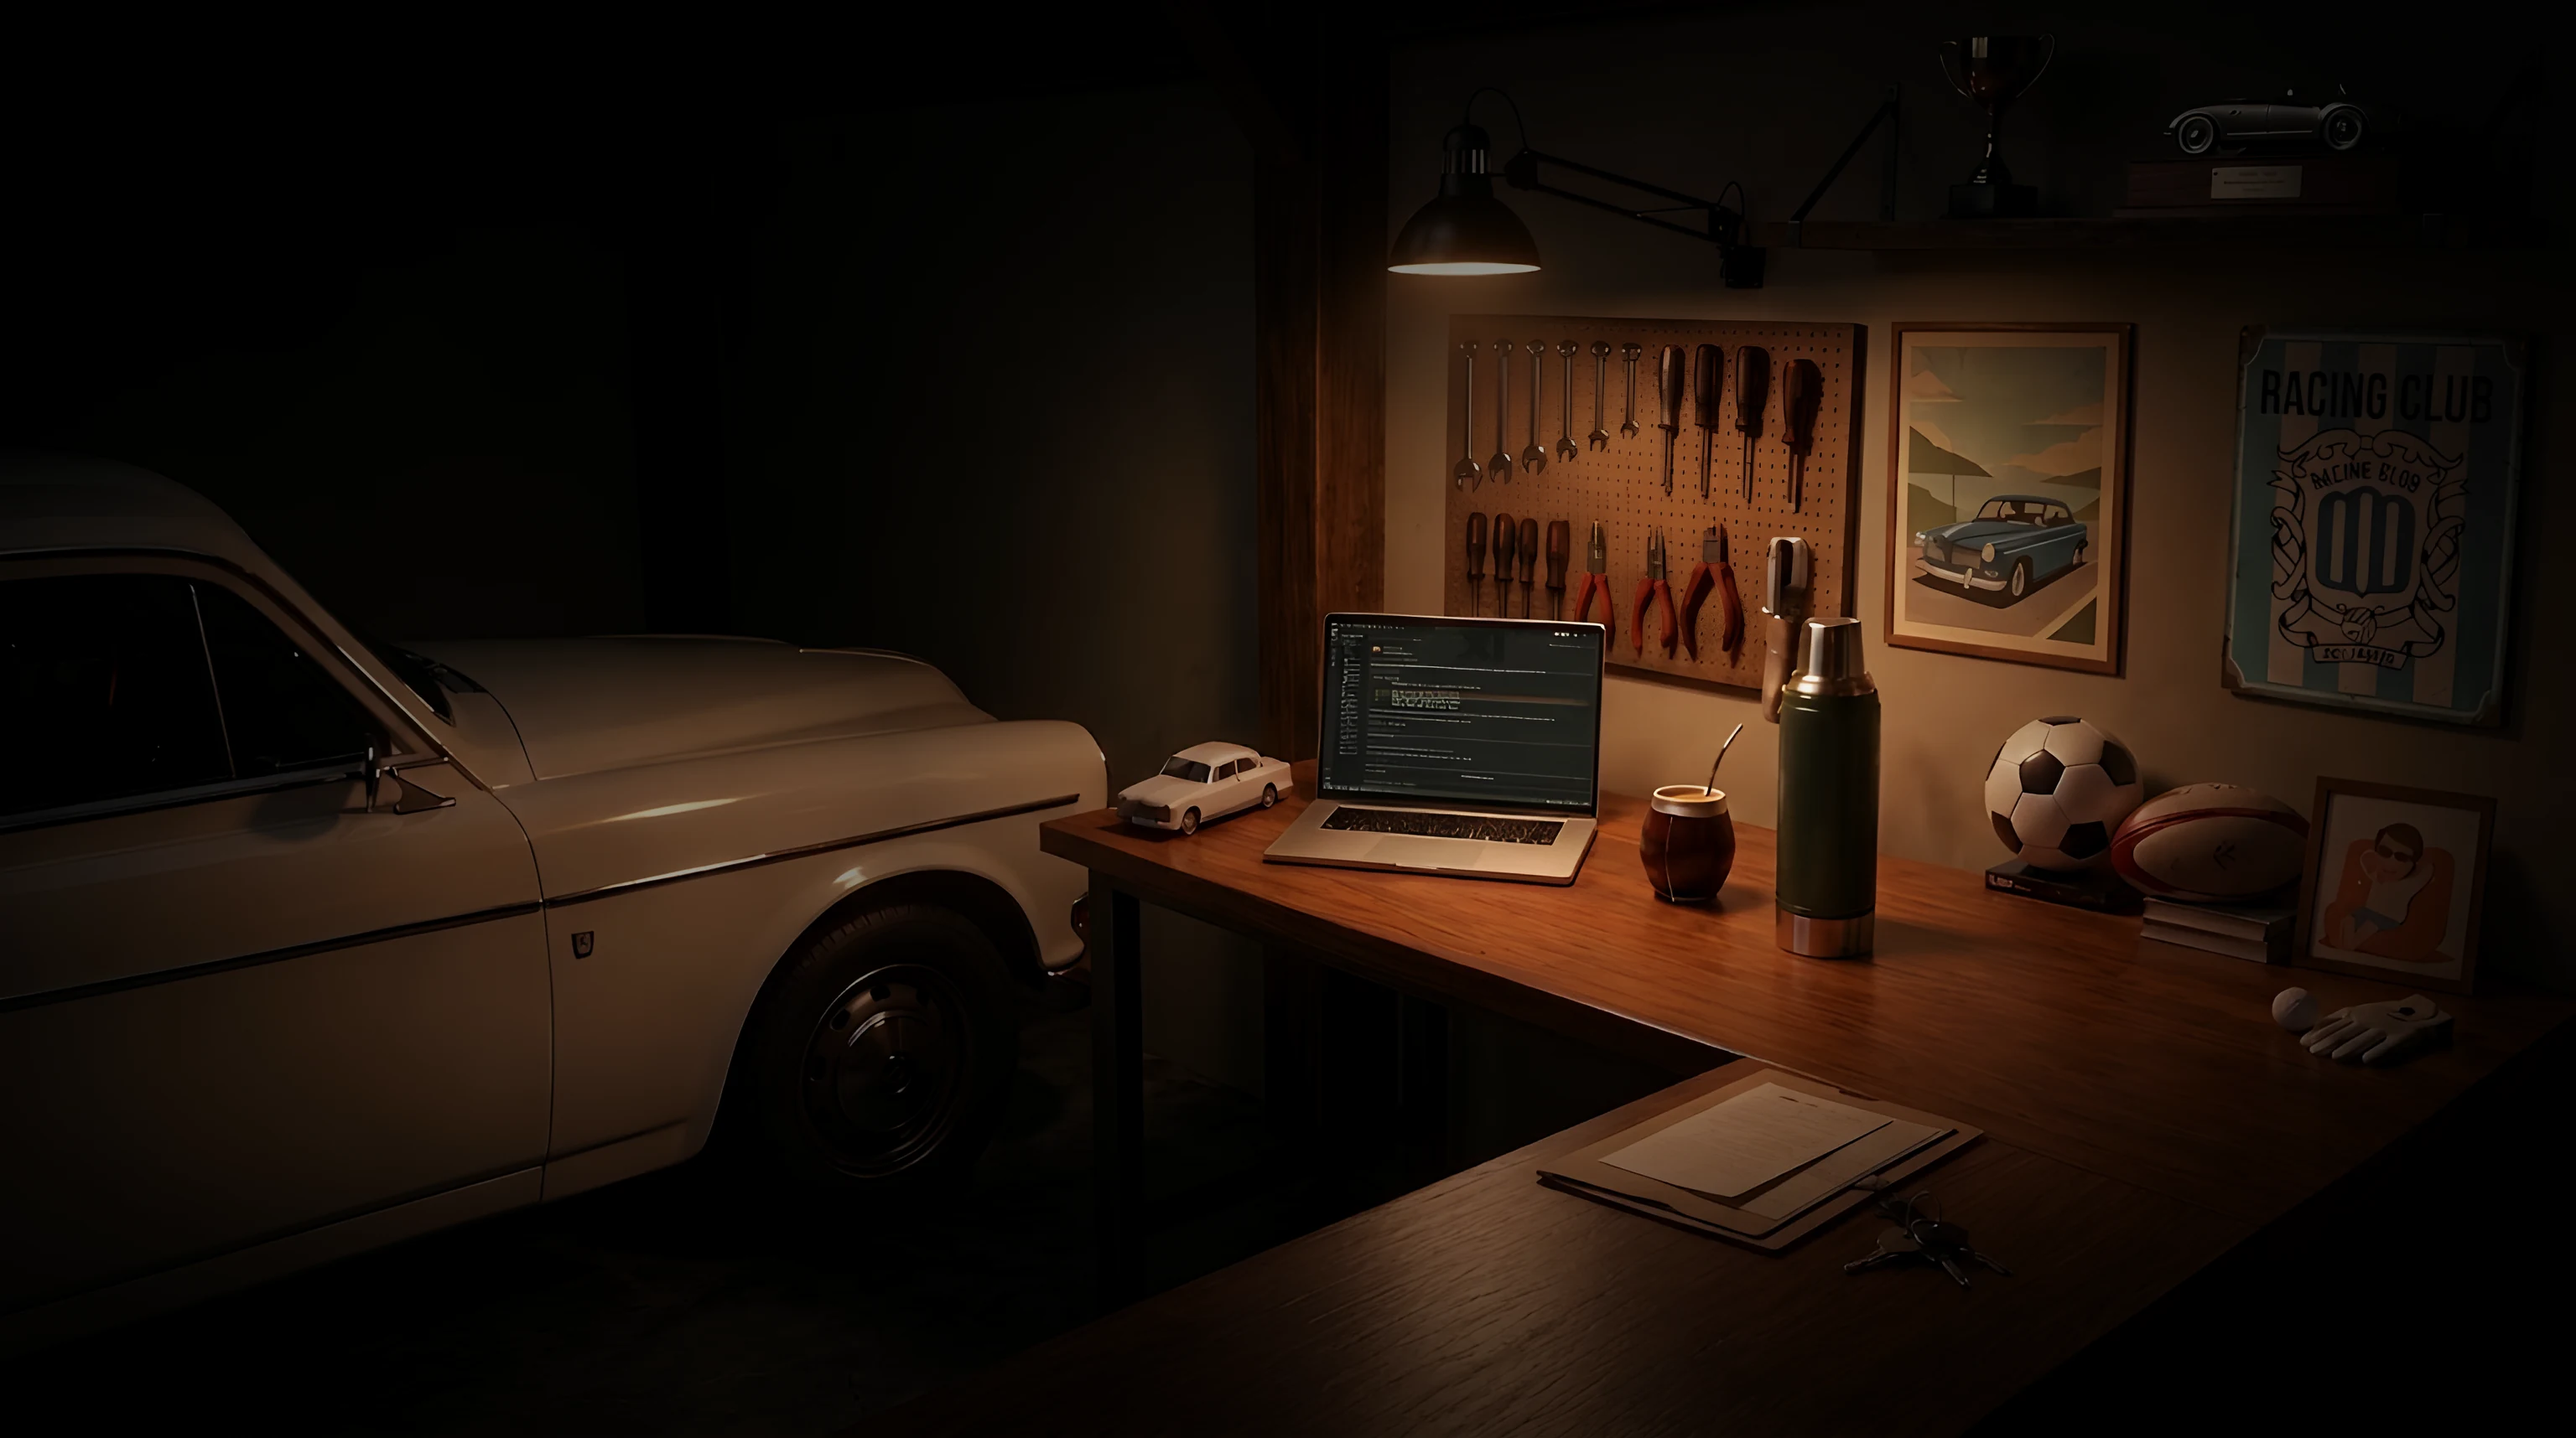
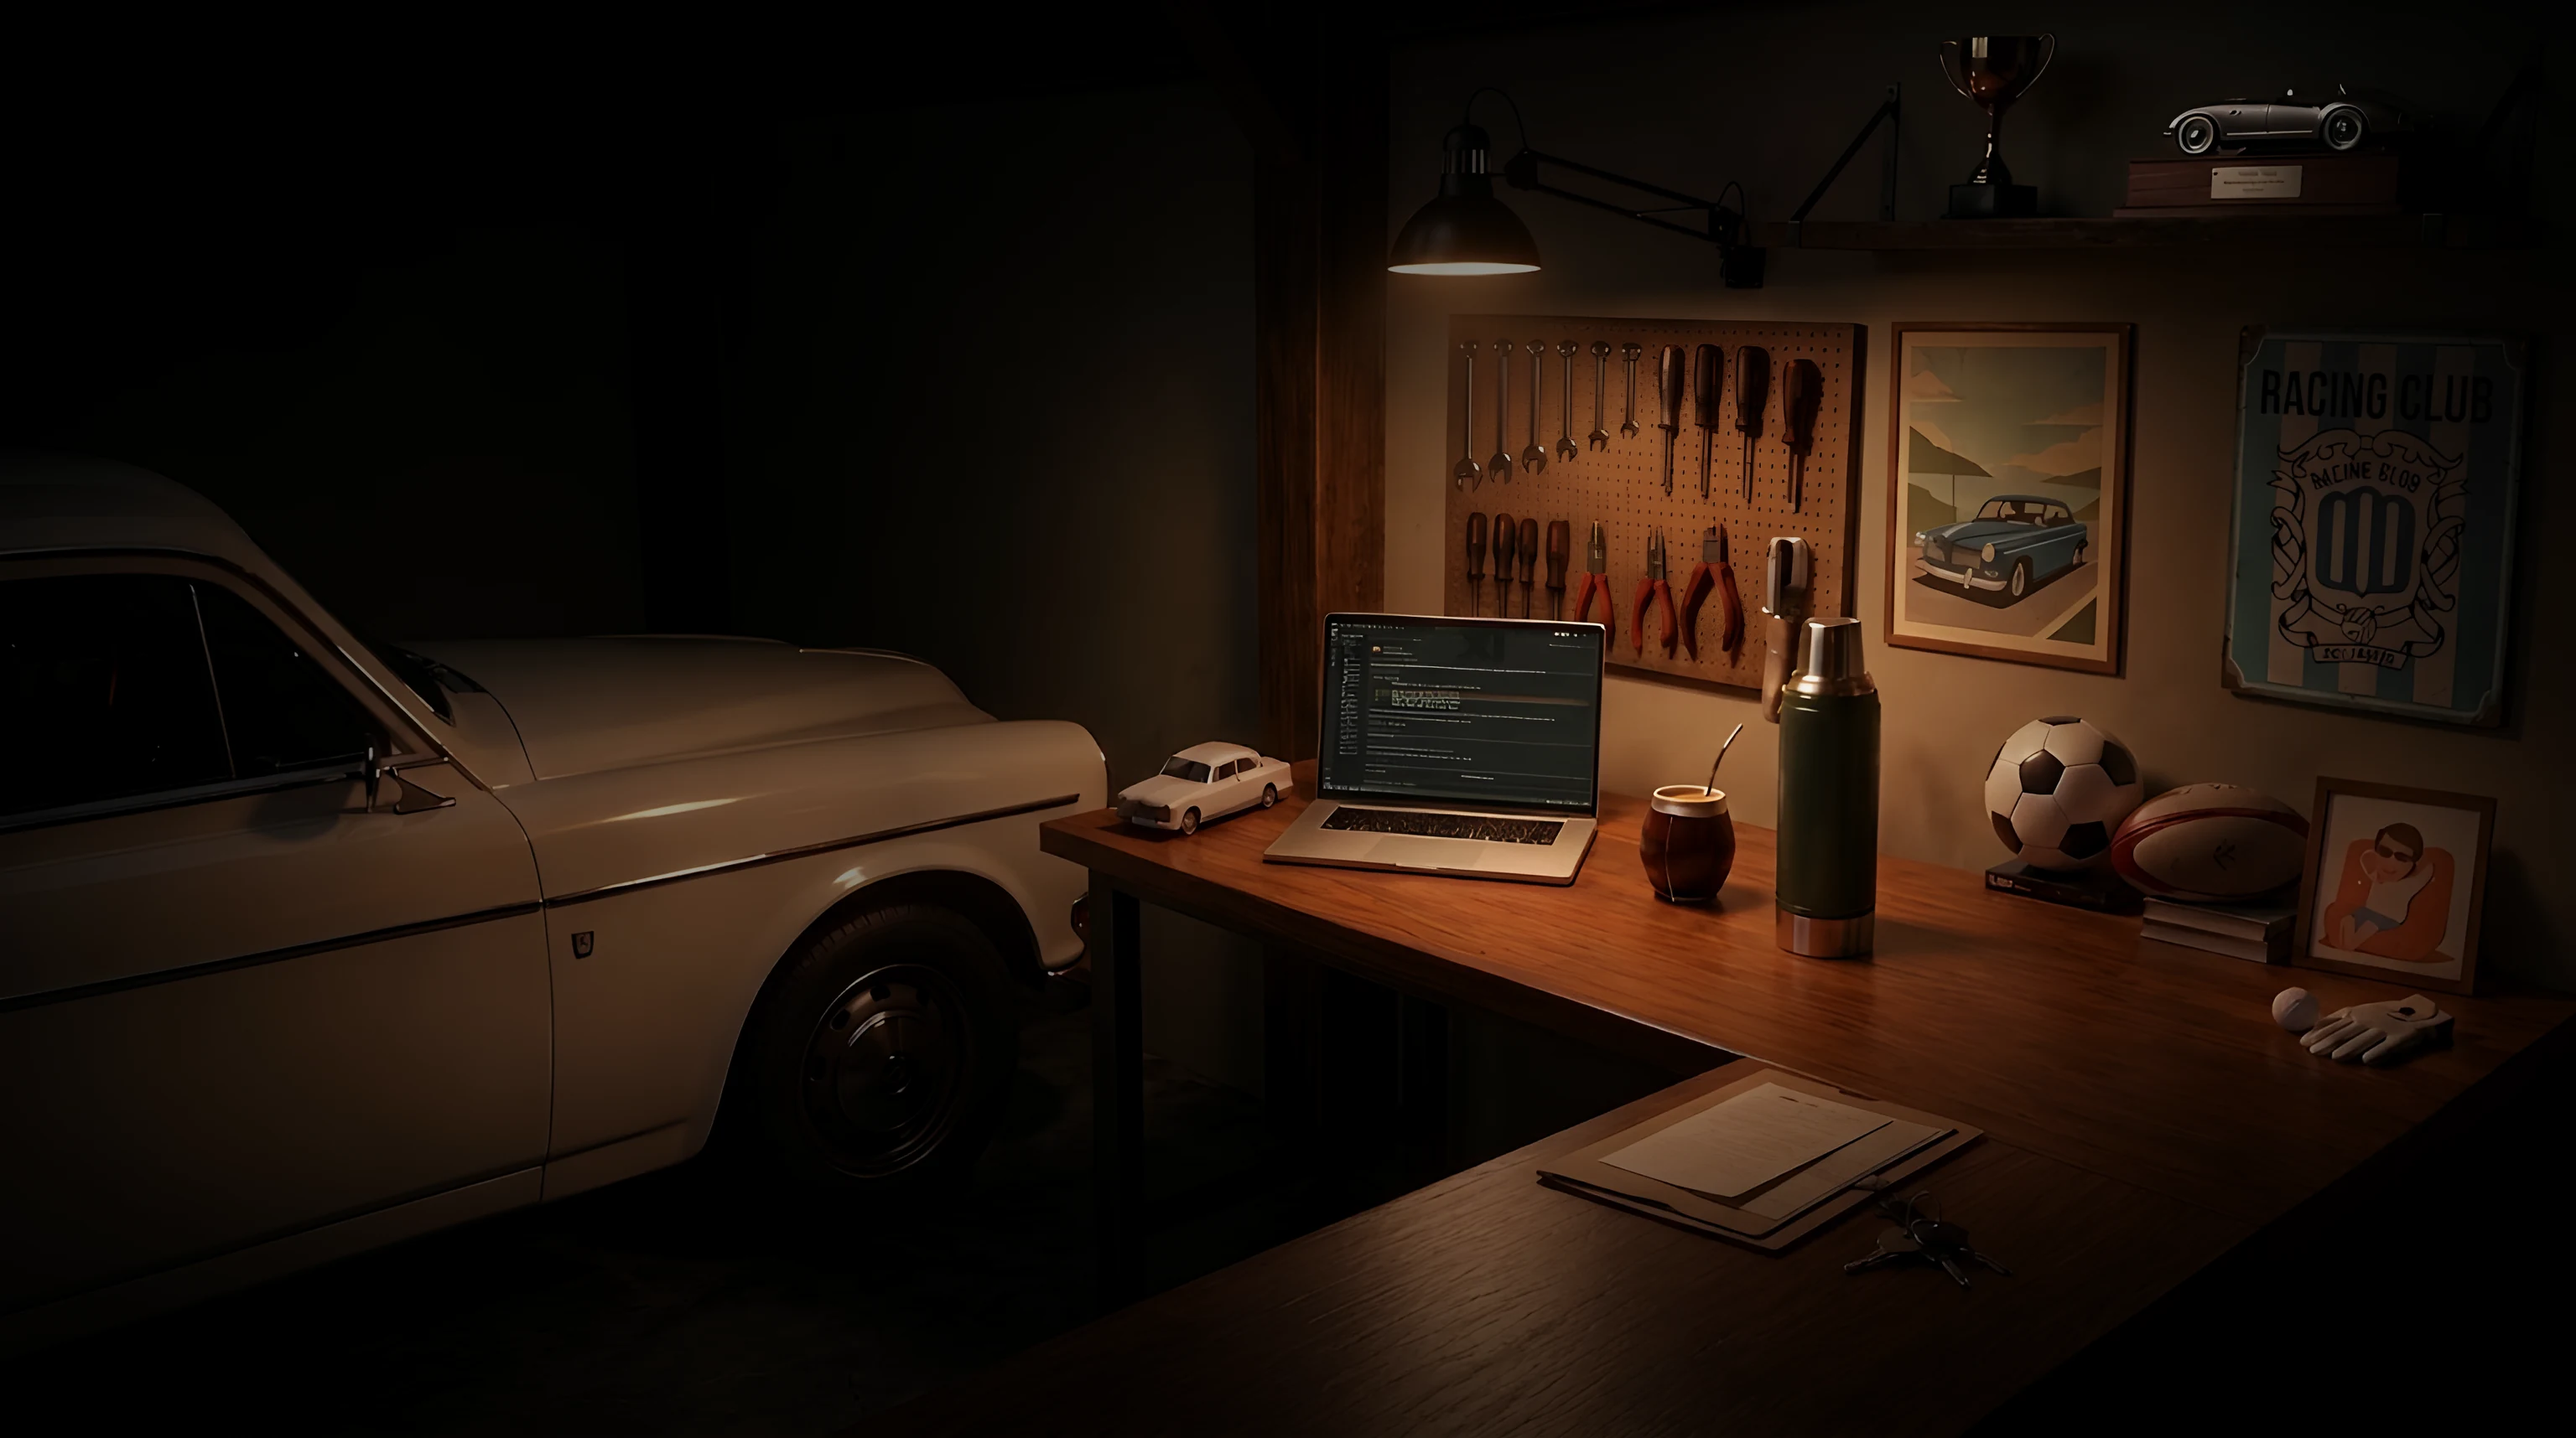
Home con menos zoom (escena al 90%) y luz sobre trofeos y rincón de golf
Claude-Session: https://claude.ai/code/session_01DYvLDrG6E4nKeTnPbicR5p

Changed region(s): [[0.875, 0.5868, 0.9688, 0.7413], [0.8125, 0.0618, 0.9062, 0.1544], [0.75, 0.0309, 0.7812, 0.0618]]

diff --git a/src/components/Scene.tsx b/src/components/Scene.tsx
@@ -101,7 +101,7 @@ export function Scene({ onEnter }: { onEnter: (route: Route) => void }) {
         transition={{ duration: 1.1, ease: [0.7, 0, 0.84, 0] }}
         onAnimationComplete={() => zoom && go(zoom.route)}
       >
-        <motion.div className="absolute inset-0" style={{ x: sx, y: sy, scale: 1 }}>
+        <motion.div className="absolute inset-0" style={{ x: sx, y: sy, scale: isPortrait ? 1 : 0.9 }}>
           <svg
             viewBox={`0 0 ${SCENE_W} ${SCENE_H}`}
             preserveAspectRatio="xMidYMid meet"
@@ -125,14 +125,14 @@ export function Scene({ onEnter }: { onEnter: (route: Route) => void }) {
               {/* Bordes que se funden a negro: la escena se ve entera, sin recortes */}
               <linearGradient id="fadeX" x1="0" x2="1" y1="0" y2="0">
                 <stop offset="0" stopColor="#fff" stopOpacity="0" />
-                <stop offset="0.06" stopColor="#fff" stopOpacity="1" />
-                <stop offset="0.94" stopColor="#fff" stopOpacity="1" />
+                <stop offset="0.035" stopColor="#fff" stopOpacity="1" />
+                <stop offset="0.965" stopColor="#fff" stopOpacity="1" />
                 <stop offset="1" stopColor="#fff" stopOpacity="0" />
               </linearGradient>
               <linearGradient id="fadeY" x1="0" x2="0" y1="0" y2="1">
                 <stop offset="0" stopColor="#fff" stopOpacity="0" />
-                <stop offset="0.07" stopColor="#fff" stopOpacity="1" />
-                <stop offset="0.93" stopColor="#fff" stopOpacity="1" />
+                <stop offset="0.04" stopColor="#fff" stopOpacity="1" />
+                <stop offset="0.96" stopColor="#fff" stopOpacity="1" />
                 <stop offset="1" stopColor="#fff" stopOpacity="0" />
               </linearGradient>
               <mask id="edgeX" maskContentUnits="userSpaceOnUse">
